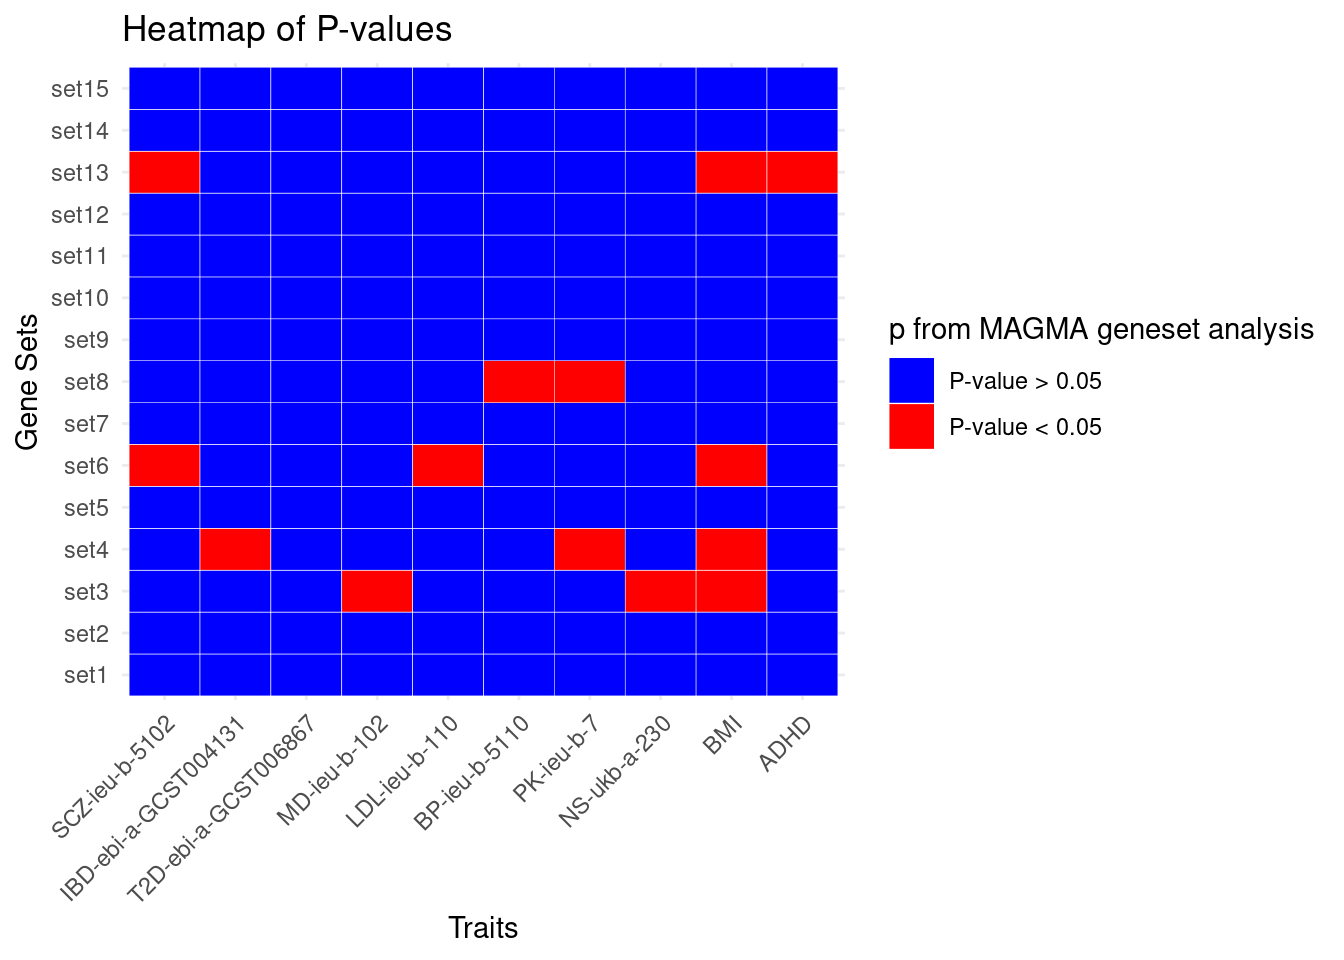
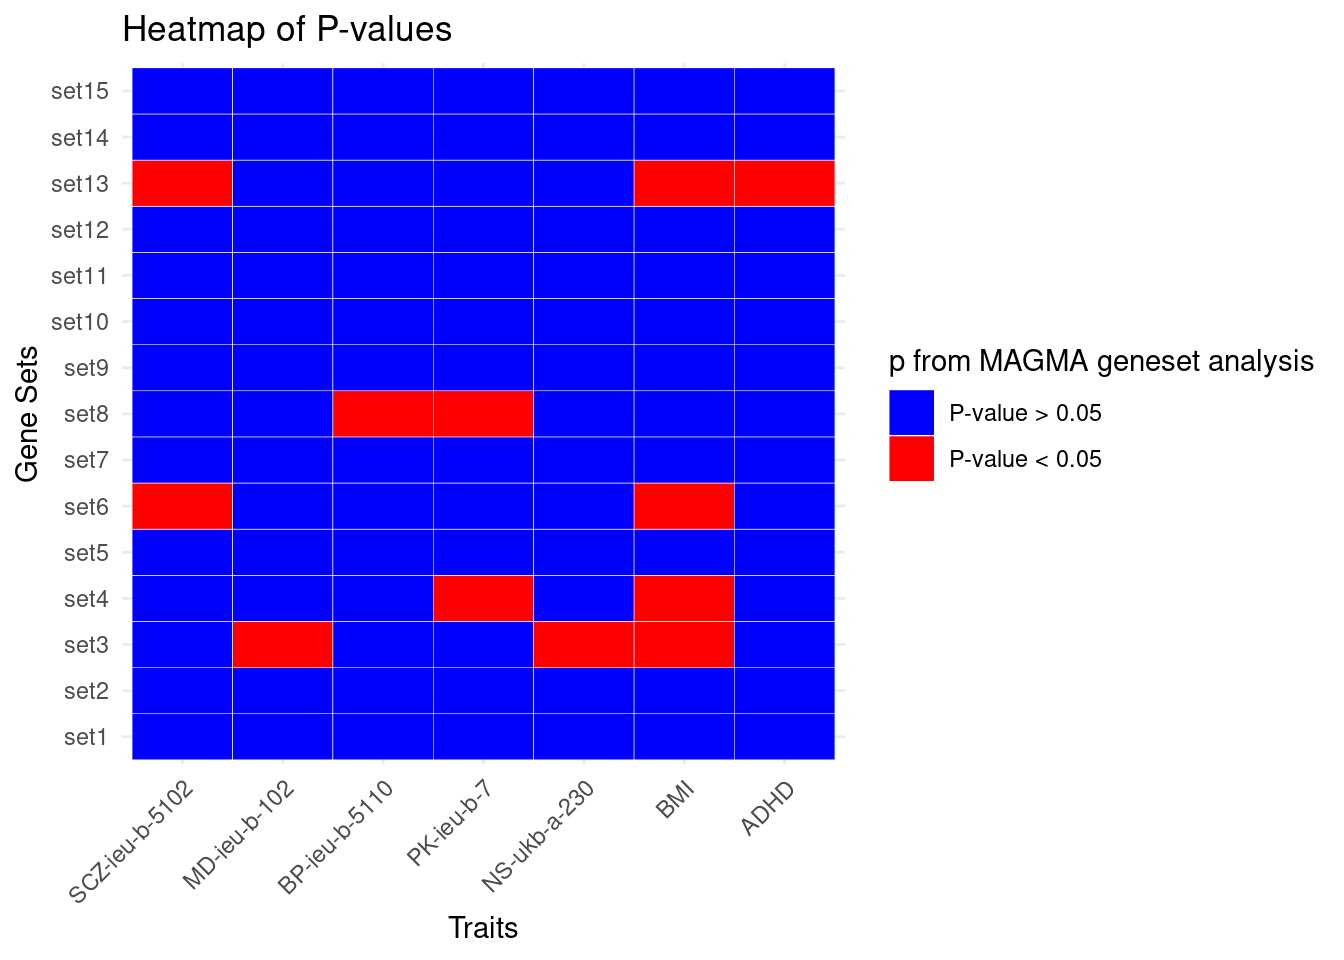
update

diff --git a/docs/magma_geneset_enrichment.html b/docs/magma_geneset_enrichment.html
@@ -544,15 +544,15 @@ project makes it easier to run your code on other machines.</p>
 <div class="panel panel-default">
 <div class="panel-heading">
 <p class="panel-title">
-<a data-toggle="collapse" data-parent="#workflowr-checks" href="#strongRepositoryversionstrongahrefhttpsgithubcomxsun1229neuronstimulationtree5de34081bdfa4988e848c9efc77bddd376df6460targetblank5de3408a">
+<a data-toggle="collapse" data-parent="#workflowr-checks" href="#strongRepositoryversionstrongahrefhttpsgithubcomxsun1229neuronstimulationtree16424ce5be8b5742b1181e495e255a04fc2fa63ctargetblank16424cea">
 <span class="glyphicon glyphicon-ok text-success"
 aria-hidden="true"></span> <strong>Repository version:</strong>
-<a href="https://github.com/xsun1229/neuron_stimulation/tree/5de34081bdfa4988e848c9efc77bddd376df6460" target="_blank">5de3408</a>
+<a href="https://github.com/xsun1229/neuron_stimulation/tree/16424ce5be8b5742b1181e495e255a04fc2fa63c" target="_blank">16424ce</a>
 </a>
 </p>
 </div>
 <div
[2 lines of base64/hex data omitted]
 class="panel-collapse collapse">
 <div class="panel-body">
 <p>
@@ -562,7 +562,7 @@ reproducibility.
 </p>
 <p>
 The results in this page were generated with repository version
-<a href="https://github.com/xsun1229/neuron_stimulation/tree/5de34081bdfa4988e848c9efc77bddd376df6460" target="_blank">5de3408</a>.
+<a href="https://github.com/xsun1229/neuron_stimulation/tree/16424ce5be8b5742b1181e495e255a04fc2fa63c" target="_blank">16424ce</a>.
 See the <em>Past versions</em> tab to see a history of the changes made
 to the R Markdown and HTML files.
 </p>
@@ -624,6 +624,40 @@ Message
 </tr>
 </thead>
 <tbody>
+<tr>
+<td>
+Rmd
+</td>
+<td>
+<a href="https://github.com/xsun1229/neuron_stimulation/blob/16424ce5be8b5742b1181e495e255a04fc2fa63c/analysis/magma_geneset_enrichment.Rmd" target="_blank">16424ce</a>
+</td>
+<td>
+XSun
+</td>
+<td>
+2024-05-29
+</td>
+<td>
+update
+</td>
+</tr>
+<tr>
+<td>
+html
+</td>
+<td>
+<a href="https://rawcdn.githack.com/xsun1229/neuron_stimulation/16424ce5be8b5742b1181e495e255a04fc2fa63c/docs/magma_geneset_enrichment.html" target="_blank">16424ce</a>
+</td>
+<td>
+XSun
+</td>
+<td>
+2024-05-29
+</td>
+<td>
+update
+</td>
+</tr>
 <tr>
 <td>
 Rmd
@@ -789,7 +823,7 @@ gwas &lt;- read.table(&quot;/project2/xinhe/xsun/neuron_stimulation/5.magma/data
 
 DT::datatable(gwas,caption = htmltools::tags$caption( style = &#39;caption-side: left; text-align: left; color:black;  font-size:150% ;&#39;,&#39;GWAS included&#39;),options = list(pageLength = 5) )</code></pre>
 <div id="htmlwidget-a048dbce05e3c0d4f681" style="width:100%;height:auto;" class="datatables html-widget"></div>
-<script type="application/json" data-for="htmlwidget-a048dbce05e3c0d4f681">{"x":{"filter":"none","vertical":false,"caption":"<caption style=\"caption-side: left; text-align: left; color:black;  font-size:150% ;\">GWAS included<\/caption>","data":[["1","2","3","4","5","6","7","8","9","10"],["SCZ","IBD","T2D","MD","LDL","BP","PK","NS","BMI","ADHD"],["/project2/xinhe/shared_data/multigroup_ctwas/gwas/SCZ-ieu-b-5102.vcf.gz","/project/xinhe/lifan/neuron_stim/ctwas_SCZ/gwas_summary_stats/ebi-a-GCST004131.vcf.gz","/project/xinhe/lifan/neuron_stim/ctwas_SCZ/gwas_summary_stats/ebi-a-GCST006867.vcf.gz","/project/xinhe/lifan/neuron_stim/ctwas_SCZ/gwas_summary_stats/ieu-b-102.vcf.gz","/project/xinhe/lifan/neuron_stim/ctwas_SCZ/gwas_summary_stats/ieu-b-110.vcf.gz","/project/xinhe/lifan/neuron_stim/ctwas_SCZ/gwas_summary_stats/ieu-b-5110.vcf.gz","/project/xinhe/lifan/neuron_stim/ctwas_SCZ/gwas_summary_stats/ieu-b-7.vcf.gz","/project/xinhe/lifan/neuron_stim/ctwas_SCZ/gwas_summary_stats/ukb-a-230.vcf.gz","/project/xinhe/lifan/neuron_stim/ctwas_SCZ/gwas_summary_stats/Meta-analysis_Locke_et_al+UKBiobank_2018_UPDATED.txt.gz","/project/xinhe/lifan/neuron_stim/ctwas_SCZ/results/eQTL_ctwas_ADHD/ADHD2022_iPSYCH_deCODE_PGC.meta.gz"],["open_GWAS","open_GWAS","open_GWAS","open_GWAS","open_GWAS","open_GWAS","open_GWAS","open_GWAS","GIANT_consortium","PGC3"],["SCZ-ieu-b-5102","IBD-ebi-a-GCST004131","T2D-ebi-a-GCST006867","MD-ieu-b-102","LDL-ieu-b-110","BP-ieu-b-5110","PK-ieu-b-7","NS-ukb-a-230","BMI","ADHD"],[127906,59957,655666,500199,440546,413466,482730,274108,688566,225534]],"container":"<table class=\"display\">\n  <thead>\n    <tr>\n      <th> <\/th>\n      <th>Trait<\/th>\n      <th>file_location<\/th>\n      <th>Source<\/th>\n      <th>name<\/th>\n      <th>samplesize<\/th>\n    <\/tr>\n  <\/thead>\n<\/table>","options":{"pageLength":5,"columnDefs":[{"className":"dt-right","targets":5},{"orderable":false,"targets":0}],"order":[],"autoWidth":false,"orderClasses":false,"lengthMenu":[5,10,25,50,100]}},"evals":[],"jsHooks":[]}</script>
+<script type="application/json" data-for="htmlwidget-a048dbce05e3c0d4f681">{"x":{"filter":"none","vertical":false,"caption":"<caption style=\"caption-side: left; text-align: left; color:black;  font-size:150% ;\">GWAS included<\/caption>","data":[["1","2","3","4","5","6","7"],["SCZ","MD","BP","PK","NS","BMI","ADHD"],["/project2/xinhe/shared_data/multigroup_ctwas/gwas/SCZ-ieu-b-5102.vcf.gz","/project/xinhe/lifan/neuron_stim/ctwas_SCZ/gwas_summary_stats/ieu-b-102.vcf.gz","/project/xinhe/lifan/neuron_stim/ctwas_SCZ/gwas_summary_stats/ieu-b-5110.vcf.gz","/project/xinhe/lifan/neuron_stim/ctwas_SCZ/gwas_summary_stats/ieu-b-7.vcf.gz","/project/xinhe/lifan/neuron_stim/ctwas_SCZ/gwas_summary_stats/ukb-a-230.vcf.gz","/project/xinhe/lifan/neuron_stim/ctwas_SCZ/gwas_summary_stats/Meta-analysis_Locke_et_al+UKBiobank_2018_UPDATED.txt.gz","/project/xinhe/lifan/neuron_stim/ctwas_SCZ/results/eQTL_ctwas_ADHD/ADHD2022_iPSYCH_deCODE_PGC.meta.gz"],["open_GWAS","open_GWAS","open_GWAS","open_GWAS","open_GWAS","GIANT_consortium","PGC3"],["SCZ-ieu-b-5102","MD-ieu-b-102","BP-ieu-b-5110","PK-ieu-b-7","NS-ukb-a-230","BMI","ADHD"],[127906,500199,413466,482730,274108,688566,225534]],"container":"<table class=\"display\">\n  <thead>\n    <tr>\n      <th> <\/th>\n      <th>Trait<\/th>\n      <th>file_location<\/th>\n      <th>Source<\/th>\n      <th>name<\/th>\n      <th>samplesize<\/th>\n    <\/tr>\n  <\/thead>\n<\/table>","options":{"pageLength":5,"columnDefs":[{"className":"dt-right","targets":5},{"orderable":false,"targets":0}],"order":[],"autoWidth":false,"orderClasses":false,"lengthMenu":[5,10,25,50,100]}},"evals":[],"jsHooks":[]}</script>
 <p><strong>MD stands for Major depression, BP is bipolar, PK is
 Parkinson, NS is Neuroticism score</strong></p>
 <ul>
@@ -803,11 +837,11 @@ Parkinson, NS is Neuroticism score</strong></p>
 <h1>Results</h1>
 <pre class="r"><code># Count the number of genes in each cluster
 
-load(&quot;/project2/xinhe/xsun/neuron_stimulation/5.magma/geneset_p.rdata&quot;)
+load(&quot;/project2/xinhe/xsun/neuron_stimulation/5.magma/results/geneset_p.rdata&quot;)
 
 DT::datatable(p_set,caption = htmltools::tags$caption( style = &#39;caption-side: left; text-align: left; color:black;  font-size:150% ;&#39;,&#39;Gene-set analysis p-values from MAGMA&#39;),options = list(pageLength = 5) )</code></pre>
 <div id="htmlwidget-cdfd3b9de1b9998a86a2" style="width:100%;height:auto;" class="datatables html-widget"></div>
-<script type="application/json" data-for="htmlwidget-cdfd3b9de1b9998a86a2">{"x":{"filter":"none","vertical":false,"caption":"<caption style=\"caption-side: left; text-align: left; color:black;  font-size:150% ;\">Gene-set analysis p-values from MAGMA<\/caption>","data":[["set1","set2","set3","set4","set5","set6","set7","set8","set9","set10","set11","set12","set13","set14","set15"],[0.75096,0.77012,0.35836,0.20897,0.67432,0.0035122,0.98373,0.23197,0.42512,0.90729,0.84744,0.99909,0.0075713,0.19641,0.52661],[0.29628,0.63273,0.99809,0.0017796,0.823,0.096328,0.28458,0.32028,0.85608,0.73612,0.8023,0.73052,0.54915,0.69924,0.74463],[0.68832,0.78041,0.49122,0.28459,0.82922,0.55569,0.50934,0.49457,0.32847,0.80005,0.20821,0.2409,0.39811,0.74253,0.21042],[0.74476,0.34357,0.032319,0.1749,0.42086,0.21338,0.56202,0.98795,0.42556,0.97007,0.31258,0.59037,0.10244,0.44375,0.88697],[0.10253,0.8489,0.54707,0.7366,0.38358,0.0062108,0.90046,0.16006,0.74668,0.54815,0.86439,0.99594,0.058256,0.15416,0.14125],[0.18367,0.26211,0.34981,0.12856,0.87499,0.58486,0.91248,0.048502,0.75656,0.48675,0.69175,0.98437,0.14703,0.94787,0.93807],[0.94882,0.11911,0.81449,0.0087824,0.13986,0.71954,0.95149,0.019855,0.28291,0.064027,0.33592,0.5657,0.85073,0.63652,0.44121],[0.34994,0.96637,0.01636,0.05743,0.37666,0.27926,0.89488,0.45443,0.30435,0.9097,0.70998,0.72766,0.30739,0.62919,0.64798],[0.83017,0.82537,0.026812,0.038322,0.43215,0.0039385,0.93779,0.55798,0.52754,0.35598,0.76317,0.74503,0.025331,0.47115,0.16305],[0.58773,0.48628,0.7231,0.3741,0.4249,0.75288,0.32352,0.47018,0.42432,0.9877,0.80543,0.47126,0.0029935,0.084477,0.65615]],"container":"<table class=\"display\">\n  <thead>\n    <tr>\n      <th> <\/th>\n      <th>SCZ-ieu-b-5102<\/th>\n      <th>IBD-ebi-a-GCST004131<\/th>\n      <th>T2D-ebi-a-GCST006867<\/th>\n      <th>MD-ieu-b-102<\/th>\n      <th>LDL-ieu-b-110<\/th>\n      <th>BP-ieu-b-5110<\/th>\n      <th>PK-ieu-b-7<\/th>\n      <th>NS-ukb-a-230<\/th>\n      <th>BMI<\/th>\n      <th>ADHD<\/th>\n    <\/tr>\n  <\/thead>\n<\/table>","options":{"pageLength":5,"columnDefs":[{"className":"dt-right","targets":[1,2,3,4,5,6,7,8,9,10]},{"orderable":false,"targets":0}],"order":[],"autoWidth":false,"orderClasses":false,"lengthMenu":[5,10,25,50,100]}},"evals":[],"jsHooks":[]}</script>
+<script type="application/json" data-for="htmlwidget-cdfd3b9de1b9998a86a2">{"x":{"filter":"none","vertical":false,"caption":"<caption style=\"caption-side: left; text-align: left; color:black;  font-size:150% ;\">Gene-set analysis p-values from MAGMA<\/caption>","data":[["set1","set2","set3","set4","set5","set6","set7","set8","set9","set10","set11","set12","set13","set14","set15"],[0.75096,0.77012,0.35836,0.20897,0.67432,0.0035122,0.98373,0.23197,0.42512,0.90729,0.84744,0.99909,0.0075713,0.19641,0.52661],[0.74476,0.34357,0.032319,0.1749,0.42086,0.21338,0.56202,0.98795,0.42556,0.97007,0.31258,0.59037,0.10244,0.44375,0.88697],[0.18367,0.26211,0.34981,0.12856,0.87499,0.58486,0.91248,0.048502,0.75656,0.48675,0.69175,0.98437,0.14703,0.94787,0.93807],[0.94882,0.11911,0.81449,0.0087824,0.13986,0.71954,0.95149,0.019855,0.28291,0.064027,0.33592,0.5657,0.85073,0.63652,0.44121],[0.34994,0.96637,0.01636,0.05743,0.37666,0.27926,0.89488,0.45443,0.30435,0.9097,0.70998,0.72766,0.30739,0.62919,0.64798],[0.83017,0.82537,0.026812,0.038322,0.43215,0.0039385,0.93779,0.55798,0.52754,0.35598,0.76317,0.74503,0.025331,0.47115,0.16305],[0.58773,0.48628,0.7231,0.3741,0.4249,0.75288,0.32352,0.47018,0.42432,0.9877,0.80543,0.47126,0.0029935,0.084477,0.65615]],"container":"<table class=\"display\">\n  <thead>\n    <tr>\n      <th> <\/th>\n      <th>SCZ-ieu-b-5102<\/th>\n      <th>MD-ieu-b-102<\/th>\n      <th>BP-ieu-b-5110<\/th>\n      <th>PK-ieu-b-7<\/th>\n      <th>NS-ukb-a-230<\/th>\n      <th>BMI<\/th>\n      <th>ADHD<\/th>\n    <\/tr>\n  <\/thead>\n<\/table>","options":{"pageLength":5,"columnDefs":[{"className":"dt-right","targets":[1,2,3,4,5,6,7]},{"orderable":false,"targets":0}],"order":[],"autoWidth":false,"orderClasses":false,"lengthMenu":[5,10,25,50,100]}},"evals":[],"jsHooks":[]}</script>
 <pre class="r"><code>pvalues_long &lt;- melt(p_set, varnames = c(&quot;Set&quot;, &quot;Condition&quot;), value.name = &quot;PValue&quot;)
 
 # Plot the heatmap with conditional coloring
@@ -855,6 +889,41 @@ XSun
 </table>
 </div>
 </div>
+<p>Then do a multiple testing correction for all the tests (15 gene sets
+x 7 traits) using q-values.</p>
+<p>The q-value is computed by <code>qvalue(p_values)</code> from
+<code>qvalue</code> package</p>
+<pre class="r"><code># Count the number of genes in each cluster
+
+load(&quot;/project2/xinhe/xsun/neuron_stimulation/5.magma/results/q_values_matrix.rdata&quot;)
+
+DT::datatable(q_values_matrix,caption = htmltools::tags$caption( style = &#39;caption-side: left; text-align: left; color:black;  font-size:150% ;&#39;,&#39;Gene-set analysis p-values from MAGMA&#39;),options = list(pageLength = 5) )</code></pre>
+<div id="htmlwidget-3223eecb5c9cfeed18c6" style="width:100%;height:auto;" class="datatables html-widget"></div>
+<script type="application/json" data-for="htmlwidget-3223eecb5c9cfeed18c6">{"x":{"filter":"none","vertical":false,"caption":"<caption style=\"caption-side: left; text-align: left; color:black;  font-size:150% ;\">Gene-set analysis p-values from MAGMA<\/caption>","data":[["set1","set2","set3","set4","set5","set6","set7","set8","set9","set10","set11","set12","set13","set14","set15"],[0.997449519230769,0.997449519230769,0.91265625,0.861726923076923,0.997449519230769,0.1378475,0.997449519230769,0.902105555555556,0.91265625,0.997449519230769,0.997449519230769,0.99909,0.1844304,0.85929375,0.955029310344828],[0.997449519230769,0.91265625,0.3393495,0.83475,0.91265625,0.861726923076923,0.96857578125,0.997449519230769,0.91265625,0.997449519230769,0.91265625,0.96857578125,0.6722625,0.91265625,0.997449519230769],[0.83849347826087,0.91265625,0.91265625,0.749933333333333,0.997449519230769,0.96857578125,0.997449519230769,0.4243925,0.997449519230769,0.91265625,0.997449519230769,0.997449519230769,0.7719075,0.997449519230769,0.997449519230769],[0.997449519230769,0.735679411764706,0.997449519230769,0.1844304,0.7719075,0.997449519230769,0.997449519230769,0.297825,0.91265625,0.4802025,0.91265625,0.96857578125,0.997449519230769,0.997449519230769,0.91265625],[0.91265625,0.997449519230769,0.2863,0.463857692307692,0.91265625,0.91265625,0.997449519230769,0.91265625,0.91265625,0.997449519230769,0.997449519230769,0.997449519230769,0.91265625,0.997449519230769,0.997449519230769],[0.997449519230769,0.997449519230769,0.312806666666667,0.365800909090909,0.91265625,0.1378475,0.997449519230769,0.96857578125,0.955029310344828,0.91265625,0.997449519230769,0.997449519230769,0.312806666666667,0.91265625,0.81525],[0.96857578125,0.91265625,0.997449519230769,0.91265625,0.91265625,0.997449519230769,0.91265625,0.91265625,0.91265625,0.997449519230769,0.997449519230769,0.91265625,0.1378475,0.591339,0.997449519230769]],"container":"<table class=\"display\">\n  <thead>\n    <tr>\n      <th> <\/th>\n      <th>SCZ-ieu-b-5102<\/th>\n      <th>MD-ieu-b-102<\/th>\n      <th>BP-ieu-b-5110<\/th>\n      <th>PK-ieu-b-7<\/th>\n      <th>NS-ukb-a-230<\/th>\n      <th>BMI<\/th>\n      <th>ADHD<\/th>\n    <\/tr>\n  <\/thead>\n<\/table>","options":{"pageLength":5,"columnDefs":[{"className":"dt-right","targets":[1,2,3,4,5,6,7]},{"orderable":false,"targets":0}],"order":[],"autoWidth":false,"orderClasses":false,"lengthMenu":[5,10,25,50,100]}},"evals":[],"jsHooks":[]}</script>
+<pre class="r"><code>qvals_long &lt;- melt(q_values_matrix, varnames = c(&quot;Set&quot;, &quot;Condition&quot;), value.name = &quot;qval&quot;)
+
+# Plot the heatmap with conditional coloring
+ggplot(qvals_long, aes(x = Condition, y = Set, fill = qval &lt; 0.3)) +
+  geom_tile(color = &quot;white&quot;) +
+  scale_fill_manual(values = c(&quot;TRUE&quot; = &quot;red&quot;, &quot;FALSE&quot; = &quot;blue&quot;), labels = c(&quot;q-values &gt; 0.3&quot;, &quot;q-values &lt; 0.3&quot;)) +
+  labs(title = &quot;Heatmap of q-values&quot;, x = &quot;Traits&quot;, y = &quot;Gene Sets&quot;, fill = &quot;q-values from MAGMA geneset analysis&quot;) +
+  theme_minimal() +
+  theme(axis.text.x = element_text(angle = 45, hjust = 1))</code></pre>
+<p><img src="figure/magma_geneset_enrichment.Rmd/unnamed-chunk-5-2.png" width="672" style="display: block; margin: auto;" /></p>
+<!-- ```{r message=FALSE} -->
+<!-- # Count the number of genes in each cluster -->
+<!-- load("/project2/xinhe/xsun/neuron_stimulation/5.magma/results/fdr_matrix.rdata") -->
+<!-- DT::datatable(fdr_matrix,caption = htmltools::tags$caption( style = 'caption-side: left; text-align: left; color:black;  font-size:150% ;','Gene-set analysis p-values from MAGMA'),options = list(pageLength = 5) ) -->
+<!-- # Plot the heatmap with conditional coloring -->
+<!-- FDRs_long <- melt(fdr_matrix, varnames = c("Set", "Condition"), value.name = "FDR") -->
+<!-- # Plot the heatmap with conditional coloring -->
+<!-- ggplot(FDRs_long, aes(x = Condition, y = Set, fill = FDR < 0.3)) + -->
+<!--   geom_tile(color = "white") + -->
+<!--   scale_fill_manual(values = c("TRUE" = "red", "FALSE" = "blue"), labels = c("FDR > 0.3", "FDR < 0.3")) + -->
+<!--   labs(title = "Heatmap of FDR", x = "Traits", y = "Gene Sets", fill = "FDR from MAGMA geneset analysis") + -->
+<!--   theme_minimal() + -->
+<!--   theme(axis.text.x = element_text(angle = 45, hjust = 1)) -->
+<!-- ``` -->
 <br>
 <p>
 <button type="button" class="btn btn-default btn-workflowr btn-workflowr-sessioninfo" data-toggle="collapse" data-target="#workflowr-sessioninfo" style="display: block;">
